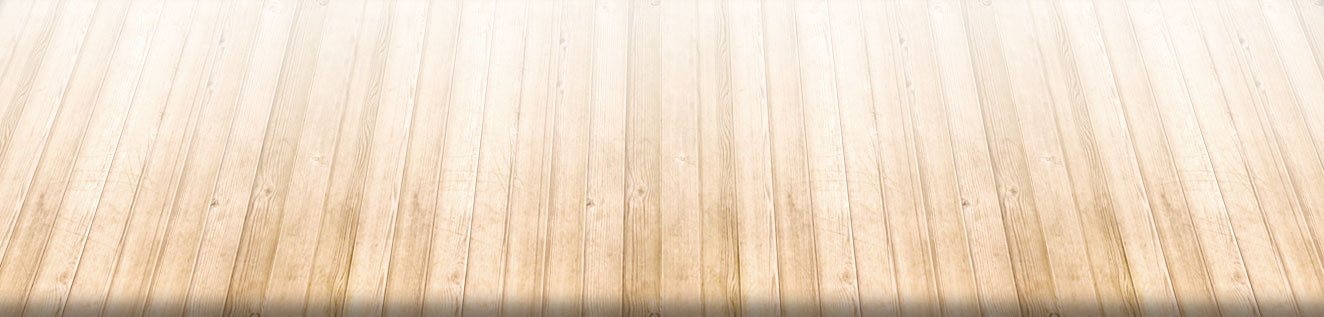
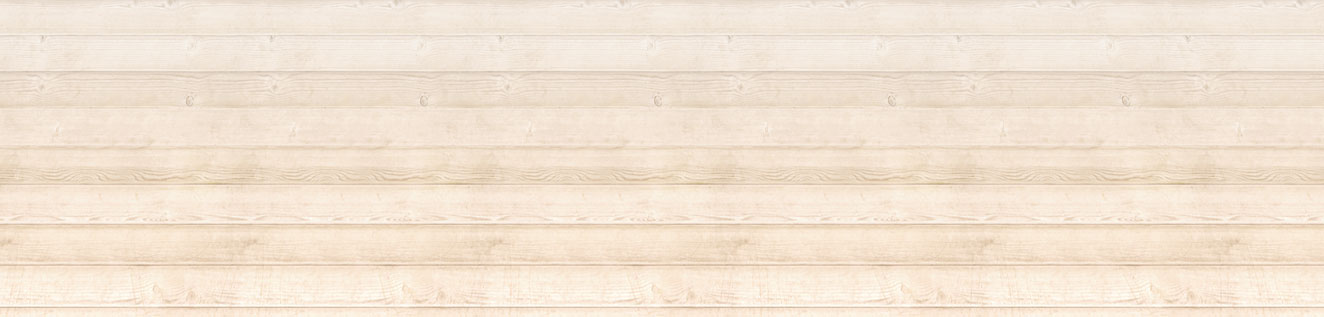
new graphics

diff --git a/public/css/style.css b/public/css/style.css
@@ -1,4 +1,4 @@
-@charset "UTF-8";@import url('http://fonts.googleapis.com/css?family=PT+Sans:400,700');/*
+@import url('http://fonts.googleapis.com/css?family=PT+Sans:400,700');/*
  * PLATSBYGGD BOKHYLLA
  * http://www.platsbyggdbokhylla.se
  *
@@ -6,4 +6,4 @@
  * Developed by: SYN–ACK and Talkative AB
  *//*
  * normalize.css 2012-03-11T12:53 UTC - http://github.com/necolas/normalize.css
- */article,aside,details,figcaption,figure,footer,header,hgroup,nav,section,summary{display:block}audio,canvas,video{display:inline-block;*display:inline;*zoom:1}audio:not([controls]){display:none;height:0}[hidden]{display:none}html{font-size:100%;-webkit-text-size-adjust:100%;-ms-text-size-adjust:100%}html,button,input,select,textarea{font-family:sans-serif}body{margin:0}a:focus{outline:thin dotted}a:hover,a:active{outline:0}h1{font-size:2em;margin:0.67em 0}h2{font-size:1.5em;margin:0.83em 0}h3{font-size:1.17em;margin:1em 0}h4{font-size:1em;margin:1.33em 0}h5{font-size:0.83em;margin:1.67em 0}h6{font-size:0.75em;margin:2.33em 0}abbr[title]{border-bottom:1px dotted}b,strong{font-weight:bold}blockquote{margin:1em 40px}dfn{font-style:italic}mark{background:#ff0;color:#000}p,pre{margin:1em 0}pre,code,kbd,samp{font-family:monospace, serif;_font-family:'courier new', monospace;font-size:1em}pre{white-space:pre;white-space:pre-wrap;word-wrap:break-word}q{quotes:none}q:before,q:after{content:'';content:none}small{font-size:75%}sub,sup{font-size:75%;line-height:0;position:relative;vertical-align:baseline}sup{top:-0.5em}sub{bottom:-0.25em}dl,menu,ol,ul{margin:1em 0}dd{margin:0 0 0 40px}menu,ol,ul{padding:0 0 0 40px}nav ul,nav ol{list-style:none;list-style-image:none}img{border:0;-ms-interpolation-mode:bicubic}svg:not(:root){overflow:hidden}figure{margin:0}form{margin:0}fieldset{border:1px solid #c0c0c0;margin:0 2px;padding:0.35em 0.625em 0.75em}legend{border:0;padding:0;white-space:normal;*margin-left:-7px}button,input,select,textarea{font-size:100%;margin:0;vertical-align:baseline;*vertical-align:middle}button,input{line-height:normal}button,input[type="button"],input[type="reset"],input[type="submit"]{cursor:pointer;-webkit-appearance:button;*overflow:visible}button[disabled],input[disabled]{cursor:default}input[type="checkbox"],input[type="radio"]{box-sizing:border-box;padding:0;*height:13px;*width:13px}input[type="search"]{-webkit-appearance:textfield;-moz-box-sizing:content-box;-webkit-box-sizing:content-box;box-sizing:content-box}input[type="search"]::-webkit-search-decoration,input[type="search"]::-webkit-search-cancel-button{-webkit-appearance:none}button::-moz-focus-inner,input::-moz-focus-inner{border:0;padding:0}textarea{overflow:auto;vertical-align:top}table{border-collapse:collapse;border-spacing:0}#stage{background:white;position:absolute;top:0;left:0;right:0;bottom:20%;background:#fafafa url('../images/wallpaper.jpg?1340791198') no-repeat bottom center;-webkit-background-size:cover;-moz-background-size:cover;-o-background-size:cover;background-size:cover}#stageinner{position:absolute;top:9.0px;left:9.0px;right:9.0px;bottom:20%;z-index:30}#rita_start{z-index:300;padding:50px;position:absolute;top:50px;bottom:150px;left:50px;right:50px;background-color:rgba(242,242,242,0.7);-webkit-transition:opacity 1s ease-out}#rita_start.hide{opacity:0}#rita_start h1{margin-left:20px}#rita_start .choice{width:33.3%;height:50%;float:left}#rita_start .choice .inner{font-size:14px;margin:auto;text-align:center;width:90%;height:90%;background-color:#FFF;line-height:200px;cursor:pointer;border:solid 5px #FFF}#rita_start .choice .inner:hover{border:solid 5px #999}#controls{background:white;padding:18.0px 18.0px;padding-left:172px;position:absolute;top:80%;left:0;right:0;bottom:0}#controls form{float:left;background-color:#F2F2F2;margin-right:20px}#controls form .item label{display:-moz-inline-box;-moz-box-orient:vertical;display:inline-block;vertical-align:middle;*vertical-align:auto;font-weight:bold;width:9em}#controls form .item label{*display:inline}#controls form .item input{display:-moz-inline-box;-moz-box-orient:vertical;display:inline-block;vertical-align:middle;*vertical-align:auto}#controls form .item input{*display:inline}#controls form .item .min{display:-moz-inline-box;-moz-box-orient:vertical;display:inline-block;vertical-align:middle;*vertical-align:auto;width:4em;text-align:right}#controls form .item .min{*display:inline}#controls form .item .value{font-size:17px;vertical-align:baseline}#controls form .item .max{display:-moz-inline-box;-moz-box-orient:vertical;display:inline-block;vertical-align:middle;*vertical-align:auto}#controls form .item .max{*display:inline}#controls form .item.sections{margin-top:9.0px;line-height:17px}#controls form .item.error label{color:red}#floor{background:url('../images/woodfloor.jpg?1340791198') no-repeat top center;-webkit-background-size:cover;-moz-background-size:cover;-o-background-size:cover;background-size:cover;border-top:1px solid #f6e1cb;position:absolute;bottom:0px;left:9.0px;right:9.0px;height:100px;z-index:20}body{background:#f2f2f2;color:#514b46;font:14px/1.286 PT Sans, sans-serif}a{color:#484fa3;text-decoration:none}a:visited{color:#484fa3}a:focus{color:#292d5c}a:hover{color:#878cca}a:active{color:#292d5c}a:hover{text-decoration:underline}#header{border-top:9.0px solid #f2f2f2;padding-left:27.0px;padding-right:27.0px;position:absolute;top:9.0px;left:0;right:0;z-index:30}#header a{color:inherit;text-decoration:inherit;cursor:inherit}#header a:active,#header a:focus{outline:none}#header .site-title{display:-moz-inline-box;-moz-box-orient:vertical;display:inline-block;vertical-align:middle;*vertical-align:auto;font-size:1.714em;font-weight:normal;margin:0;padding-top:9.0px}#header .site-title{*display:inline}#header .nav{float:right}#header .nav .nav-items{margin:0;padding:0;list-style:0}#header .nav .nav-items li{display:-moz-inline-box;-moz-box-orient:vertical;display:inline-block;vertical-align:middle;*vertical-align:auto}#header .nav .nav-items li{*display:inline}#header .nav .nav-items li a{display:block;padding:9.0px 9.0px}#header .nav .nav-items .nav-item a{-webkit-transition:all,0.4s;-moz-transition:all 0.4s;-ms-transition:all 0.4s;-o-transition:all 0.4s;transition:all,0.4s;color:inherit;text-decoration:inherit;cursor:inherit;background:#514b46;color:#f2f2f2;display:block;padding:9.0px 9.0px;margin-left:9.0px;padding-top:16px;margin-top:-3px;text-transform:uppercase}#header .nav .nav-items .nav-item a:active,#header .nav .nav-items .nav-item a:focus{outline:none}#header .nav .nav-items .nav-item a:focus,#header .nav .nav-items .nav-item a:hover{background:#f2f2f2;color:#514b46}#header .nav .nav-items .nav-item.nav-item-selected a{background:#aacc87;color:#364328}#main{-webkit-box-shadow:0 2px 3px #a6a6a6;-moz-box-shadow:0 2px 3px #a6a6a6;box-shadow:0 2px 3px #a6a6a6;padding-left:9.0px;padding-right:9.0px;position:absolute;top:71.999px;bottom:18.0px;left:27.0px;right:27.0px;z-index:10}#main .primary{-webkit-border-radius:2px;-moz-border-radius:2px;-ms-border-radius:2px;-o-border-radius:2px;border-radius:2px;-webkit-box-sizing:border-box;-moz-box-sizing:border-box;box-sizing:border-box;background:#f2f2f2;padding-left:18.0px;padding-right:18.0px;max-height:80%;overflow:scroll;position:absolute;top:9.0px;right:9.0px;width:35%}#main{background:none no-repeat center center fixed;-webkit-background-size:cover;-moz-background-size:cover;-o-background-size:cover;background-size:cover}body.start #main{background-image:url('../images/photos/l/jerker_mg_1956.jpg?1340265054')}body.ribersborg #main{background-image:url('../images/photos/l/jerker_mg_3597.jpg?1340265054')}body.davidhall #main{background-image:url('../images/photos/l/jerker_mg_2004_1.jpg?1340265054')}body.funkar #main{background-image:url('../images/photos/l/jerker_mg_2013.jpg?1340265590')}body.kontakt #main{background-image:url('../images/photos/l/jerker_mg_4071_1.jpg?1340265590')}#logo{-webkit-border-radius:2px;-moz-border-radius:2px;-ms-border-radius:2px;-o-border-radius:2px;border-radius:2px;background:#f2f2f2;position:absolute;bottom:27.0px;left:36.0px;padding:9.0px 9.0px;z-index:50}#logo img{width:86px;height:119px}
+ */article,aside,details,figcaption,figure,footer,header,hgroup,nav,section,summary{display:block}audio,canvas,video{display:inline-block;*display:inline;*zoom:1}audio:not([controls]){display:none;height:0}[hidden]{display:none}html{font-size:100%;-webkit-text-size-adjust:100%;-ms-text-size-adjust:100%}html,button,input,select,textarea{font-family:sans-serif}body{margin:0}a:focus{outline:thin dotted}a:hover,a:active{outline:0}h1{font-size:2em;margin:0.67em 0}h2{font-size:1.5em;margin:0.83em 0}h3{font-size:1.17em;margin:1em 0}h4{font-size:1em;margin:1.33em 0}h5{font-size:0.83em;margin:1.67em 0}h6{font-size:0.75em;margin:2.33em 0}abbr[title]{border-bottom:1px dotted}b,strong{font-weight:bold}blockquote{margin:1em 40px}dfn{font-style:italic}mark{background:#ff0;color:#000}p,pre{margin:1em 0}pre,code,kbd,samp{font-family:monospace, serif;_font-family:'courier new', monospace;font-size:1em}pre{white-space:pre;white-space:pre-wrap;word-wrap:break-word}q{quotes:none}q:before,q:after{content:'';content:none}small{font-size:75%}sub,sup{font-size:75%;line-height:0;position:relative;vertical-align:baseline}sup{top:-0.5em}sub{bottom:-0.25em}dl,menu,ol,ul{margin:1em 0}dd{margin:0 0 0 40px}menu,ol,ul{padding:0 0 0 40px}nav ul,nav ol{list-style:none;list-style-image:none}img{border:0;-ms-interpolation-mode:bicubic}svg:not(:root){overflow:hidden}figure{margin:0}form{margin:0}fieldset{border:1px solid #c0c0c0;margin:0 2px;padding:0.35em 0.625em 0.75em}legend{border:0;padding:0;white-space:normal;*margin-left:-7px}button,input,select,textarea{font-size:100%;margin:0;vertical-align:baseline;*vertical-align:middle}button,input{line-height:normal}button,input[type="button"],input[type="reset"],input[type="submit"]{cursor:pointer;-webkit-appearance:button;*overflow:visible}button[disabled],input[disabled]{cursor:default}input[type="checkbox"],input[type="radio"]{box-sizing:border-box;padding:0;*height:13px;*width:13px}input[type="search"]{-webkit-appearance:textfield;-moz-box-sizing:content-box;-webkit-box-sizing:content-box;box-sizing:content-box}input[type="search"]::-webkit-search-decoration,input[type="search"]::-webkit-search-cancel-button{-webkit-appearance:none}button::-moz-focus-inner,input::-moz-focus-inner{border:0;padding:0}textarea{overflow:auto;vertical-align:top}table{border-collapse:collapse;border-spacing:0}#stage{background:white;position:absolute;top:0;left:0;right:0;bottom:20%;background:#fafafa url('../images/wallpaper.jpg?1341238606') no-repeat bottom center;-webkit-background-size:cover;-moz-background-size:cover;-o-background-size:cover;background-size:cover}#stageinner{position:absolute;top:9.0px;left:9.0px;right:9.0px;bottom:20%;z-index:30}#rita_start{z-index:300;padding:50px;position:absolute;top:50px;bottom:150px;left:50px;right:50px;background-color:rgba(242,242,242,0.7);-webkit-transition:opacity 1s ease-out}#rita_start.hide{opacity:0}#rita_start h1{margin-left:20px}#rita_start .choice{width:33.3%;height:50%;float:left}#rita_start .choice .inner{font-size:14px;margin:auto;text-align:center;width:90%;height:90%;background-color:#FFF;line-height:200px;cursor:pointer;border:solid 5px #FFF}#rita_start .choice .inner:hover{border:solid 5px #999}#controls{background:white;padding:18.0px 18.0px;padding-left:172px;position:absolute;top:80%;left:0;right:0;bottom:0}#controls form{float:left;background-color:#F2F2F2;margin-right:20px}#controls form .item label{display:-moz-inline-box;-moz-box-orient:vertical;display:inline-block;vertical-align:middle;*vertical-align:auto;font-weight:bold;width:9em}#controls form .item label{*display:inline}#controls form .item input{display:-moz-inline-box;-moz-box-orient:vertical;display:inline-block;vertical-align:middle;*vertical-align:auto}#controls form .item input{*display:inline}#controls form .item .min{display:-moz-inline-box;-moz-box-orient:vertical;display:inline-block;vertical-align:middle;*vertical-align:auto;width:4em;text-align:right}#controls form .item .min{*display:inline}#controls form .item .value{font-size:17px;vertical-align:baseline}#controls form .item .max{display:-moz-inline-box;-moz-box-orient:vertical;display:inline-block;vertical-align:middle;*vertical-align:auto}#controls form .item .max{*display:inline}#controls form .item.sections{margin-top:9.0px;line-height:17px}#controls form .item.error label{color:red}#floor{background:url('../images/woodfloor.jpg?1341238520') no-repeat top center;-webkit-background-size:cover;-moz-background-size:cover;-o-background-size:cover;background-size:cover;border-top:1px solid #f6e1cb;position:absolute;bottom:0px;left:9.0px;right:9.0px;height:100px;z-index:20}body{background:#f2f2f2;color:#514b46;font:14px/1.286 PT Sans, sans-serif}a{color:#484fa3;text-decoration:none}a:visited{color:#484fa3}a:focus{color:#292d5c}a:hover{color:#878cca}a:active{color:#292d5c}a:hover{text-decoration:underline}#header{border-top:9.0px solid #f2f2f2;padding-left:27.0px;padding-right:27.0px;position:absolute;top:9.0px;left:0;right:0;z-index:30}#header a{color:inherit;text-decoration:inherit;cursor:inherit}#header a:active,#header a:focus{outline:none}#header .site-title{display:-moz-inline-box;-moz-box-orient:vertical;display:inline-block;vertical-align:middle;*vertical-align:auto;font-size:1.714em;font-weight:normal;margin:0;padding-top:9.0px}#header .site-title{*display:inline}#header .nav{float:right}#header .nav .nav-items{margin:0;padding:0;list-style:0}#header .nav .nav-items li{display:-moz-inline-box;-moz-box-orient:vertical;display:inline-block;vertical-align:middle;*vertical-align:auto}#header .nav .nav-items li{*display:inline}#header .nav .nav-items li a{display:block;padding:9.0px 9.0px}#header .nav .nav-items .nav-item a{-webkit-transition:all,0.4s;-moz-transition:all 0.4s;-ms-transition:all 0.4s;-o-transition:all 0.4s;transition:all,0.4s;color:inherit;text-decoration:inherit;cursor:inherit;background:#514b46;color:#f2f2f2;display:block;padding:9.0px 9.0px;margin-left:9.0px;padding-top:16px;margin-top:-3px;text-transform:uppercase}#header .nav .nav-items .nav-item a:active,#header .nav .nav-items .nav-item a:focus{outline:none}#header .nav .nav-items .nav-item a:focus,#header .nav .nav-items .nav-item a:hover{background:#f2f2f2;color:#514b46}#header .nav .nav-items .nav-item.nav-item-selected a{background:#aacc87;color:#364328}#main{-webkit-box-shadow:0 2px 3px #a6a6a6;-moz-box-shadow:0 2px 3px #a6a6a6;box-shadow:0 2px 3px #a6a6a6;padding-left:9.0px;padding-right:9.0px;position:absolute;top:71.999px;bottom:18.0px;left:27.0px;right:27.0px;z-index:10}#main .primary{-webkit-border-radius:2px;-moz-border-radius:2px;-ms-border-radius:2px;-o-border-radius:2px;border-radius:2px;-webkit-box-sizing:border-box;-moz-box-sizing:border-box;box-sizing:border-box;background:#f2f2f2;padding-left:18.0px;padding-right:18.0px;max-height:80%;overflow:scroll;position:absolute;top:9.0px;right:9.0px;width:35%}#main{background:none no-repeat center center fixed;-webkit-background-size:cover;-moz-background-size:cover;-o-background-size:cover;background-size:cover}body.start #main{background-image:url('../images/photos/l/jerker_mg_1956.jpg?1337939897')}body.ribersborg #main{background-image:url('../images/photos/l/jerker_mg_3597.jpg?1337939905')}body.davidhall #main{background-image:url('../images/photos/l/jerker_mg_2004_1.jpg?1337939462')}body.funkar #main{background-image:url('../images/photos/l/jerker_mg_2013.jpg?1340265314')}body.kontakt #main{background-image:url('../images/photos/l/jerker_mg_4071_1.jpg?1340265398')}#logo{-webkit-border-radius:2px;-moz-border-radius:2px;-ms-border-radius:2px;-o-border-radius:2px;border-radius:2px;background:#f2f2f2;position:absolute;bottom:27.0px;left:36.0px;padding:9.0px 9.0px;z-index:50}#logo img{width:86px;height:119px}
